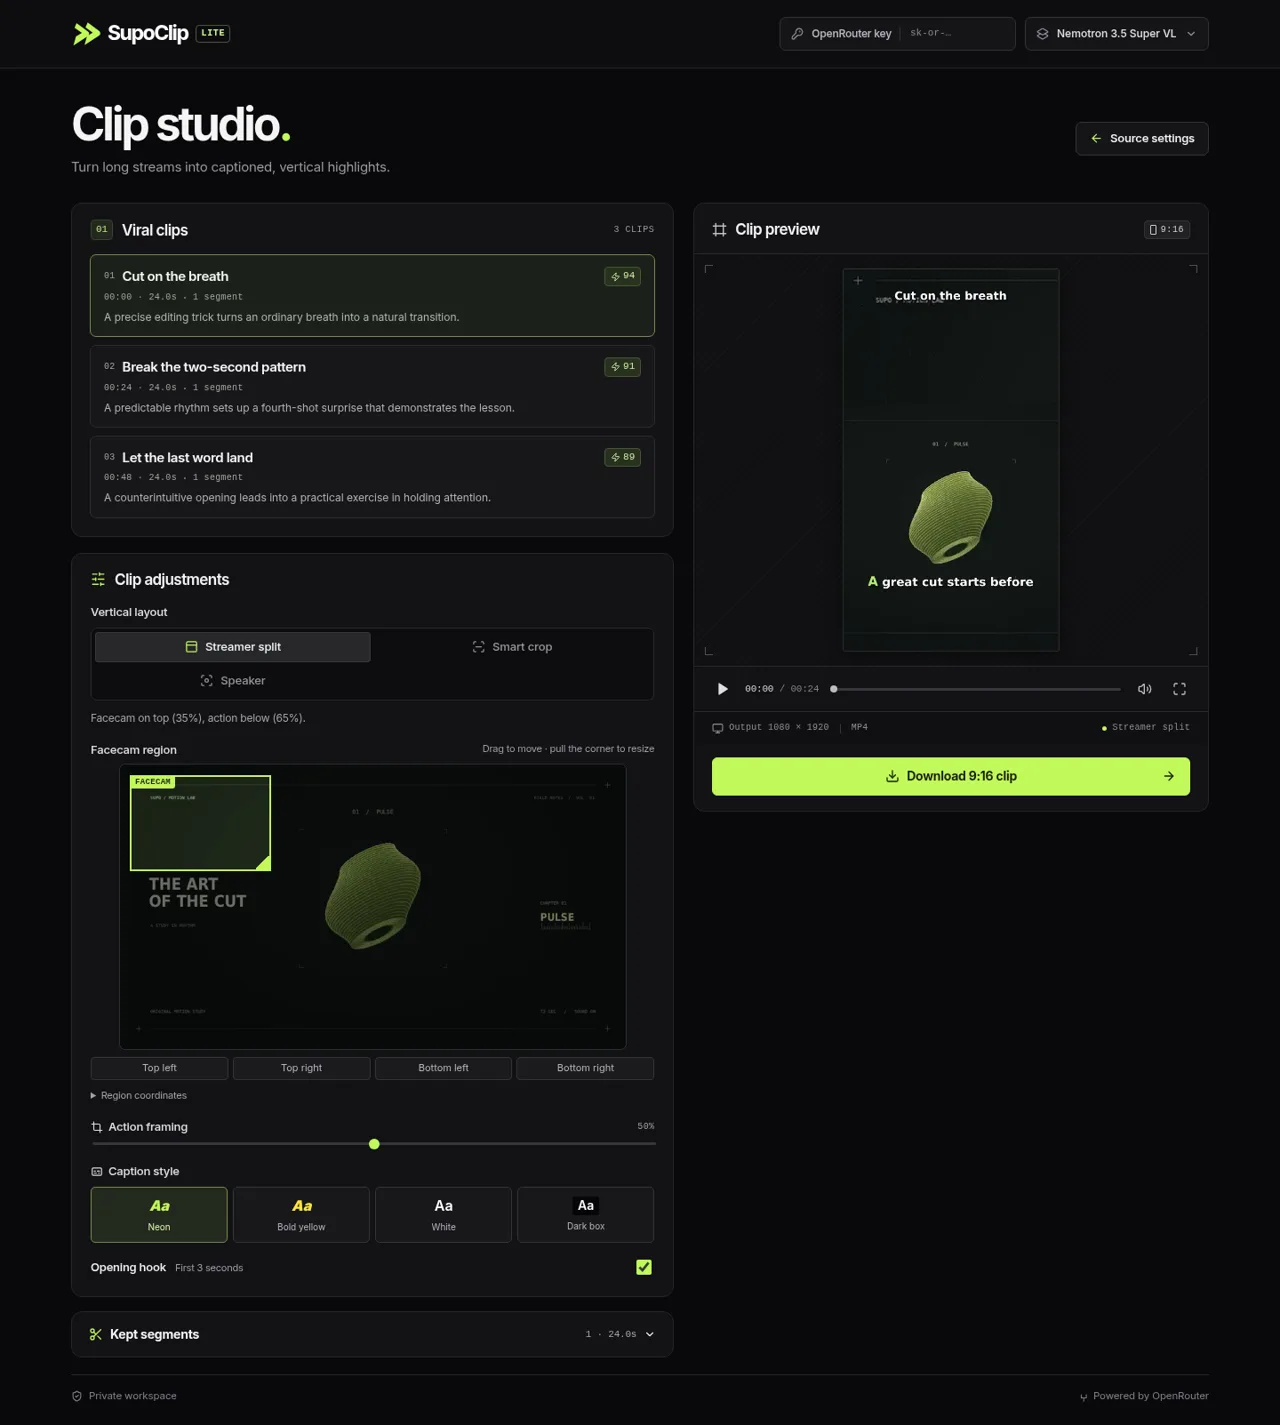
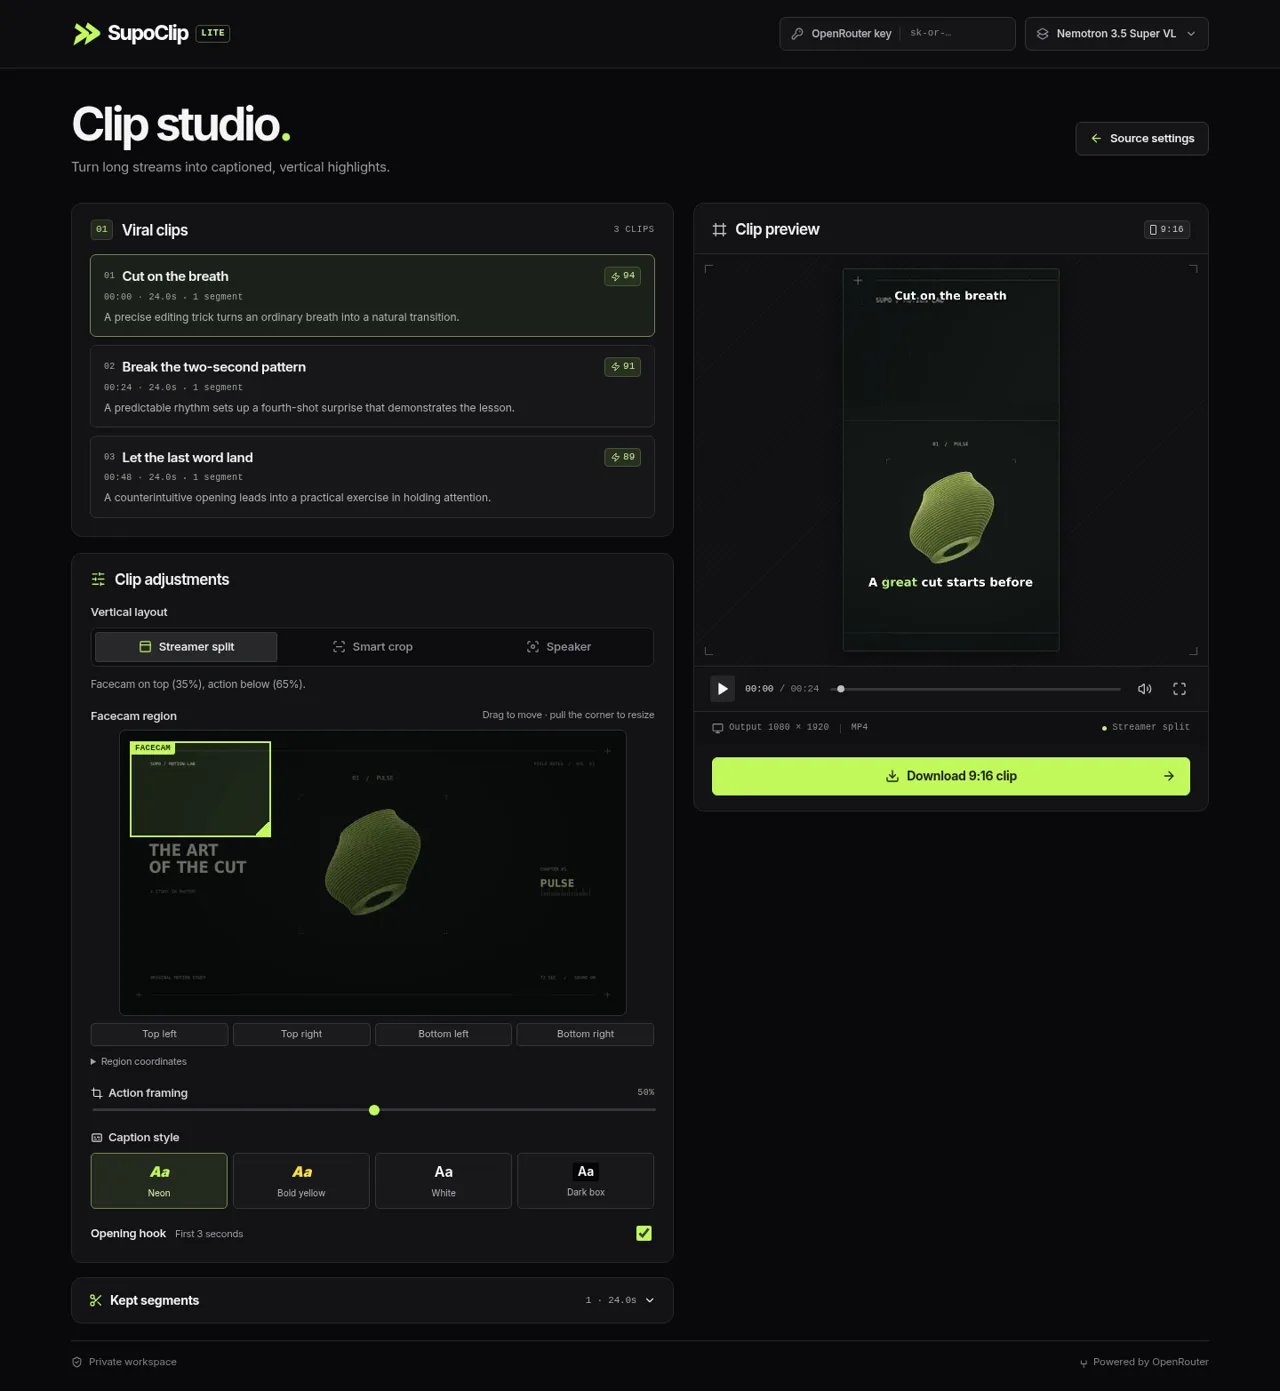
fix(studio): preserve word anchors and settle framing after a cut

diff --git a/app/Studio.tsx b/app/Studio.tsx
@@ -686,9 +686,14 @@ export default function Studio() {
       );
       const result = await request<{ jobId: string }>("/api/generate-clips", {
         ...options,
+        // Receive the job ID even if Cancel is pressed during the short submission.
+        signal: AbortSignal.timeout(30000),
         headers: { "Content-Type": "application/json", Prefer: "respond-async", Authorization: "Bearer " + key.trim() },
       });
-      if (signal.aborted) return;
+      if (signal.aborted) {
+        await request("/api/analysis-jobs/" + encodeURIComponent(result.jobId), { method: "DELETE" });
+        return;
+      }
       try { sessionStorage.setItem("supoclip.analysis", result.jobId); } catch {}
       setAnalysisStage("Queued for analysis");
       setAnalysisId(result.jobId);

diff --git a/app/Framing.tsx b/app/Framing.tsx
@@ -261,7 +261,7 @@ export function FramingEditor(props: EditorProps) {
         <div className="field-row">
           <span className="field-label">Vertical layout</span>
         </div>
-        <div className="tabs" role="group" aria-label="Vertical layout">
+        <div className="tabs layout-tabs" role="group" aria-label="Vertical layout">
           {modes.map(({ id, label, Icon }) => (
             <button
               key={id}

diff --git a/app/studio.css b/app/studio.css
@@ -549,3 +549,4 @@ OTHER DEALINGS IN THE FONT SOFTWARE.
 
 .supo .layout-note{color:#a4a5ad;font:400 12px/1.5 Inter,sans-serif;margin:-7px 0 17px}
 .supo .frame-hook{top:5.2%;font-size:6.4cqw;left:6%;right:6%}.supo .frame-caption{bottom:16.2%;font-size:6.4cqw}
+.tabs.layout-tabs { grid-template-columns: repeat(3, minmax(0, 1fr)); }

diff --git a/worker/ingest.py b/worker/ingest.py
@@ -154,6 +154,19 @@ def clock_time(text):
     return sum(float(value) * 60 ** position for position, value in enumerate(reversed(fields)))
 
 
+def timed_tokens(pieces, end):
+    words = []
+    for idx, (begin, text) in enumerate(pieces):
+        stop = pieces[idx + 1][0] if idx + 1 < len(pieces) else end
+        tokens = clean_caption(text).split()
+        if tokens and stop <= begin:
+            return []
+        for n, token in enumerate(tokens):
+            words.append({"text": token, "start": begin + (stop-begin)*n/len(tokens),
+                          "end": begin + (stop-begin)*(n+1)/len(tokens)})
+    return words
+
+
 def parse_captions(raw, ext, duration):
     entries = []
     timings = {}
@@ -167,16 +180,8 @@ def parse_captions(raw, ext, duration):
             pieces = [seg for seg in event["segs"] if isinstance(seg, dict) and clean_caption(str(seg.get("utf8", "")))]
             if any("tOffsetMs" in seg for seg in pieces):
                 end = start + finite(event.get("dDurationMs")) / 1000
-                positions = [start + finite(seg.get("tOffsetMs")) / 1000 for seg in pieces] + [end]
-                words = []
-                for idx, seg in enumerate(pieces):
-                    tokens = clean_caption(seg["utf8"]).split()
-                    begin, stop = positions[idx:idx+2]
-                    for n, token in enumerate(tokens):
-                        words.append({"text": token, "start": begin + (stop-begin)*n/len(tokens),
-                                      "end": begin + (stop-begin)*(n+1)/len(tokens)})
-                if words and all(w["end"] > w["start"] for w in words):
-                    timings[start] = words
+                timings[start] = timed_tokens([(start + finite(seg.get("tOffsetMs")) / 1000, seg["utf8"])
+                                              for seg in pieces], end)
             entries.append((start, start + finite(event.get("dDurationMs")) / 1000, text))
     else:
         timestamp = r"((?:\d+:)?\d{1,2}:\d{2}(?:[.,]\d{1,3})?)"
@@ -186,7 +191,15 @@ def parse_captions(raw, ext, duration):
             for i, line in enumerate(lines):
                 match = timing.match(line.strip())
                 if match:
-                    entries.append((clock_time(match[1]), clock_time(match[2]), " ".join(lines[i+1:])))
+                    start, end = clock_time(match[1]), clock_time(match[2])
+                    text = " ".join(lines[i+1:])
+                    if ext == "vtt":
+                        pieces = re.split("<" + timestamp + ">", text)
+                        if len(pieces) > 1:
+                            offsets = [(start, pieces[0])] + [(clock_time(pieces[j]), pieces[j+1])
+                                                            for j in range(1, len(pieces), 2)]
+                            timings[start] = timed_tokens(offsets, end)
+                    entries.append((start, end, text))
                     break
     cues = []
     previous_words, previous_end = [], -1.0

diff --git a/worker/speaker.py b/worker/speaker.py
@@ -19,6 +19,7 @@ def frame_centers(path, start, seconds, width, height):
             "-threads", "1", "-f", "rawvideo", "pipe:1"]
     raw = subprocess.run(args, capture_output=True, check=True, timeout=150).stdout
     previous, points, current, proposed, votes = None, [], None, None, 0
+    missed = 0
     for index, frame in enumerate(np.frombuffer(raw, dtype=np.uint8).reshape((-1, h, w))):
         faces = cascade.detectMultiScale(frame, scaleFactor=1.12, minNeighbors=4, minSize=(20, 20))
         scores = []
@@ -35,7 +36,12 @@ def frame_centers(path, start, seconds, width, height):
             scores.append((math.sqrt(fw * fh / (w * h)) + min(movement / 30, .6) + continuity, center))
         previous = frame
         if not scores:
+            missed += 1
+            if current is not None and missed >= 4:
+                points.append((index / 3, None))
+                current, proposed, votes = None, None, 0
             continue
+        missed = 0
         winner = float(max(scores)[1])
         if current is None:
             current = winner
@@ -47,7 +53,7 @@ def frame_centers(path, start, seconds, width, height):
             proposed = winner
             if votes >= 3:
                 current, votes = winner, 0
-        if not points or (index / 3 - points[-1][0] >= .9 and abs(current - points[-1][1]) > .025):
+        if not points or points[-1][1] is None or (index / 3 - points[-1][0] >= .9 and abs(current - points[-1][1]) > .025):
             points.append((index / 3, current))
     return points
 
@@ -62,7 +68,7 @@ def pan_expression(centers, width, height, fallback):
     previous = pan(center) if first <= .4 else fallback
     terms = [f"{previous:.5f}"]
     for timestamp, center in centers:
-        target = pan(center)
+        target = fallback if center is None else pan(center)
         if abs(target - previous) > .005:
             terms.append(f"({target - previous:.5f})*clip((t-{timestamp:.3f})/0.40,0,1)")
             previous = target

diff --git a/tests/test_long.py b/tests/test_long.py
@@ -49,6 +49,8 @@ class LongRecordings(unittest.TestCase):
         raw = {"events":[{"tStartMs":5000,"dDurationMs":2000,"segs":[{"utf8":"wait"},{"utf8":" now","tOffsetMs":1680}]}]}
         cue = ingest.parse_captions(json.dumps(raw), "json3", 20)[0]
         self.assertEqual(cue["words"][1]["start"], 6.68)
+        vtt = "WEBVTT\n\n00:00:05.000 --> 00:00:07.000\nwait <00:00:06.680><c>now</c>"
+        self.assertEqual(ingest.parse_captions(vtt, "vtt", 20)[0]["words"], cue["words"])
         span = render.Span(Path("unused"),0,2,5,7,0,60)
         subtitles = render.make_subtitles({"captions":[cue]}, {"hook":False}, [span])
         self.assertIn("0:00:01.68,0:00:02.00,Caption", subtitles)
@@ -66,10 +68,11 @@ class LongRecordings(unittest.TestCase):
             right[12:162,192:320] = photo
             command = ["ffmpeg","-nostdin","-v","error","-f","rawvideo","-pix_fmt","bgr24","-s","320x180","-r","3",
                        "-i","pipe:0","-c:v","libx264","-pix_fmt","yuv420p","-threads","1",str(path)]
-            subprocess.run(command, input=left.tobytes()*9 + right.tobytes()*9, check=True)
-            centers = speaker.frame_centers(path, 0, 6, 320, 180)
+            subprocess.run(command, input=left.tobytes()*9 + right.tobytes()*9 + np.full_like(left, 50).tobytes()*6, check=True)
+            centers = speaker.frame_centers(path, 0, 8, 320, 180)
             self.assertLess(centers[0][1], .35)
-            self.assertGreater(centers[-1][1], .65)
+            self.assertGreater(centers[-2][1], .65)
+            self.assertIsNone(centers[-1][1])
             self.assertIn("clip(", speaker.pan_expression(centers, 320, 180, .5))
             self.assertEqual(speaker.pan_expression([], 320, 180, .37), "0.370000")
 

diff --git a/README.md b/README.md
@@ -25,7 +25,7 @@ Open **http://localhost:7860**. The first build downloads the speech model and m
 2. Enter your OpenRouter key and select **Generate viral clips**. If subtitles are missing, the bundled multilingual Whisper base model transcribes the entire audio timeline in overlapping five-minute chunks on CPU. Each finished chunk is saved. You can also paste text or import SRT/VTT subtitles.
 3. The hook finder considers every timed passage in bounded OpenRouter requests. Its default is `nvidia/nemotron-3.5-super-vl:free`, with one retry through `openrouter/free` on a failed passage. It ranks up to six distinct hooks, grounded in source cue IDs. Short or sparse sources can yield fewer than three. Completed passages are cached for a retry after a quota reset. Free-model availability and quotas come from OpenRouter.
 4. Adjust the jump cuts, facecam rectangle, horizontal framing and caption style. **Streamer split** puts the selected facecam above gameplay at a 35/65 split. **Smart crop** uses your pan and punches in on hype moments. **Speaker** follows visible faces using mouth motion, with your pan position as the fallback. The optional hook banner covers the first three seconds.
-5. Preview and download use the same FFmpeg edit. The export is a 1080 × 1920, 30 fps H.264/AAC MP4 with fast-start playback. ASR and timed YouTube JSON3 words retain their timestamps through cuts. Subtitles that provide only phrase times use interpolated word highlights.
+5. Preview and download use the same FFmpeg edit. The export is a 1080 × 1920, 30 fps H.264/AAC MP4 with fast-start playback. ASR and word-timed JSON3/VTT subtitles retain their timestamps through cuts. Subtitles that provide only phrase times use interpolated word highlights.
 
 For captioned VODs, discovery fetches metadata and subtitle text. The encoder requests each selected range with `yt-dlp --download-sections` and reuses it for subsequent edits. HLS may transfer neighboring fragments. A captionless VOD requires reading its complete audio once. The worker prefers audio-only renditions. On platforms that expose only muxed audio/video, it reads the lowest available rendition in bounded chunks and discards each chunk after transcription. It never assembles a full remote VOD file.
 

diff --git a/CHANGELOG.md b/CHANGELOG.md
@@ -6,7 +6,7 @@ Add a line here when a pull request changes something a user can see. Use **New*
 
 ## 2026-11-19
 
-- **New** Run the Lite studio in one container, find highlights throughout captionless stream archives with local speech recognition, then export vertical clips with speaker or streamer framing and timed captions. [Lite changes](https://github.com/BlackGoku49500/supoclipclone/compare/main...feat/supoclip-lite)
+- **New** Run the Lite studio in one container, find highlights throughout captionless stream archives with local speech recognition, then export vertical clips with speaker or streamer framing and timed captions. ([#1](https://github.com/BlackGoku49500/supoclipclone/pull/1))
 
 ## 2026-11-12
 
